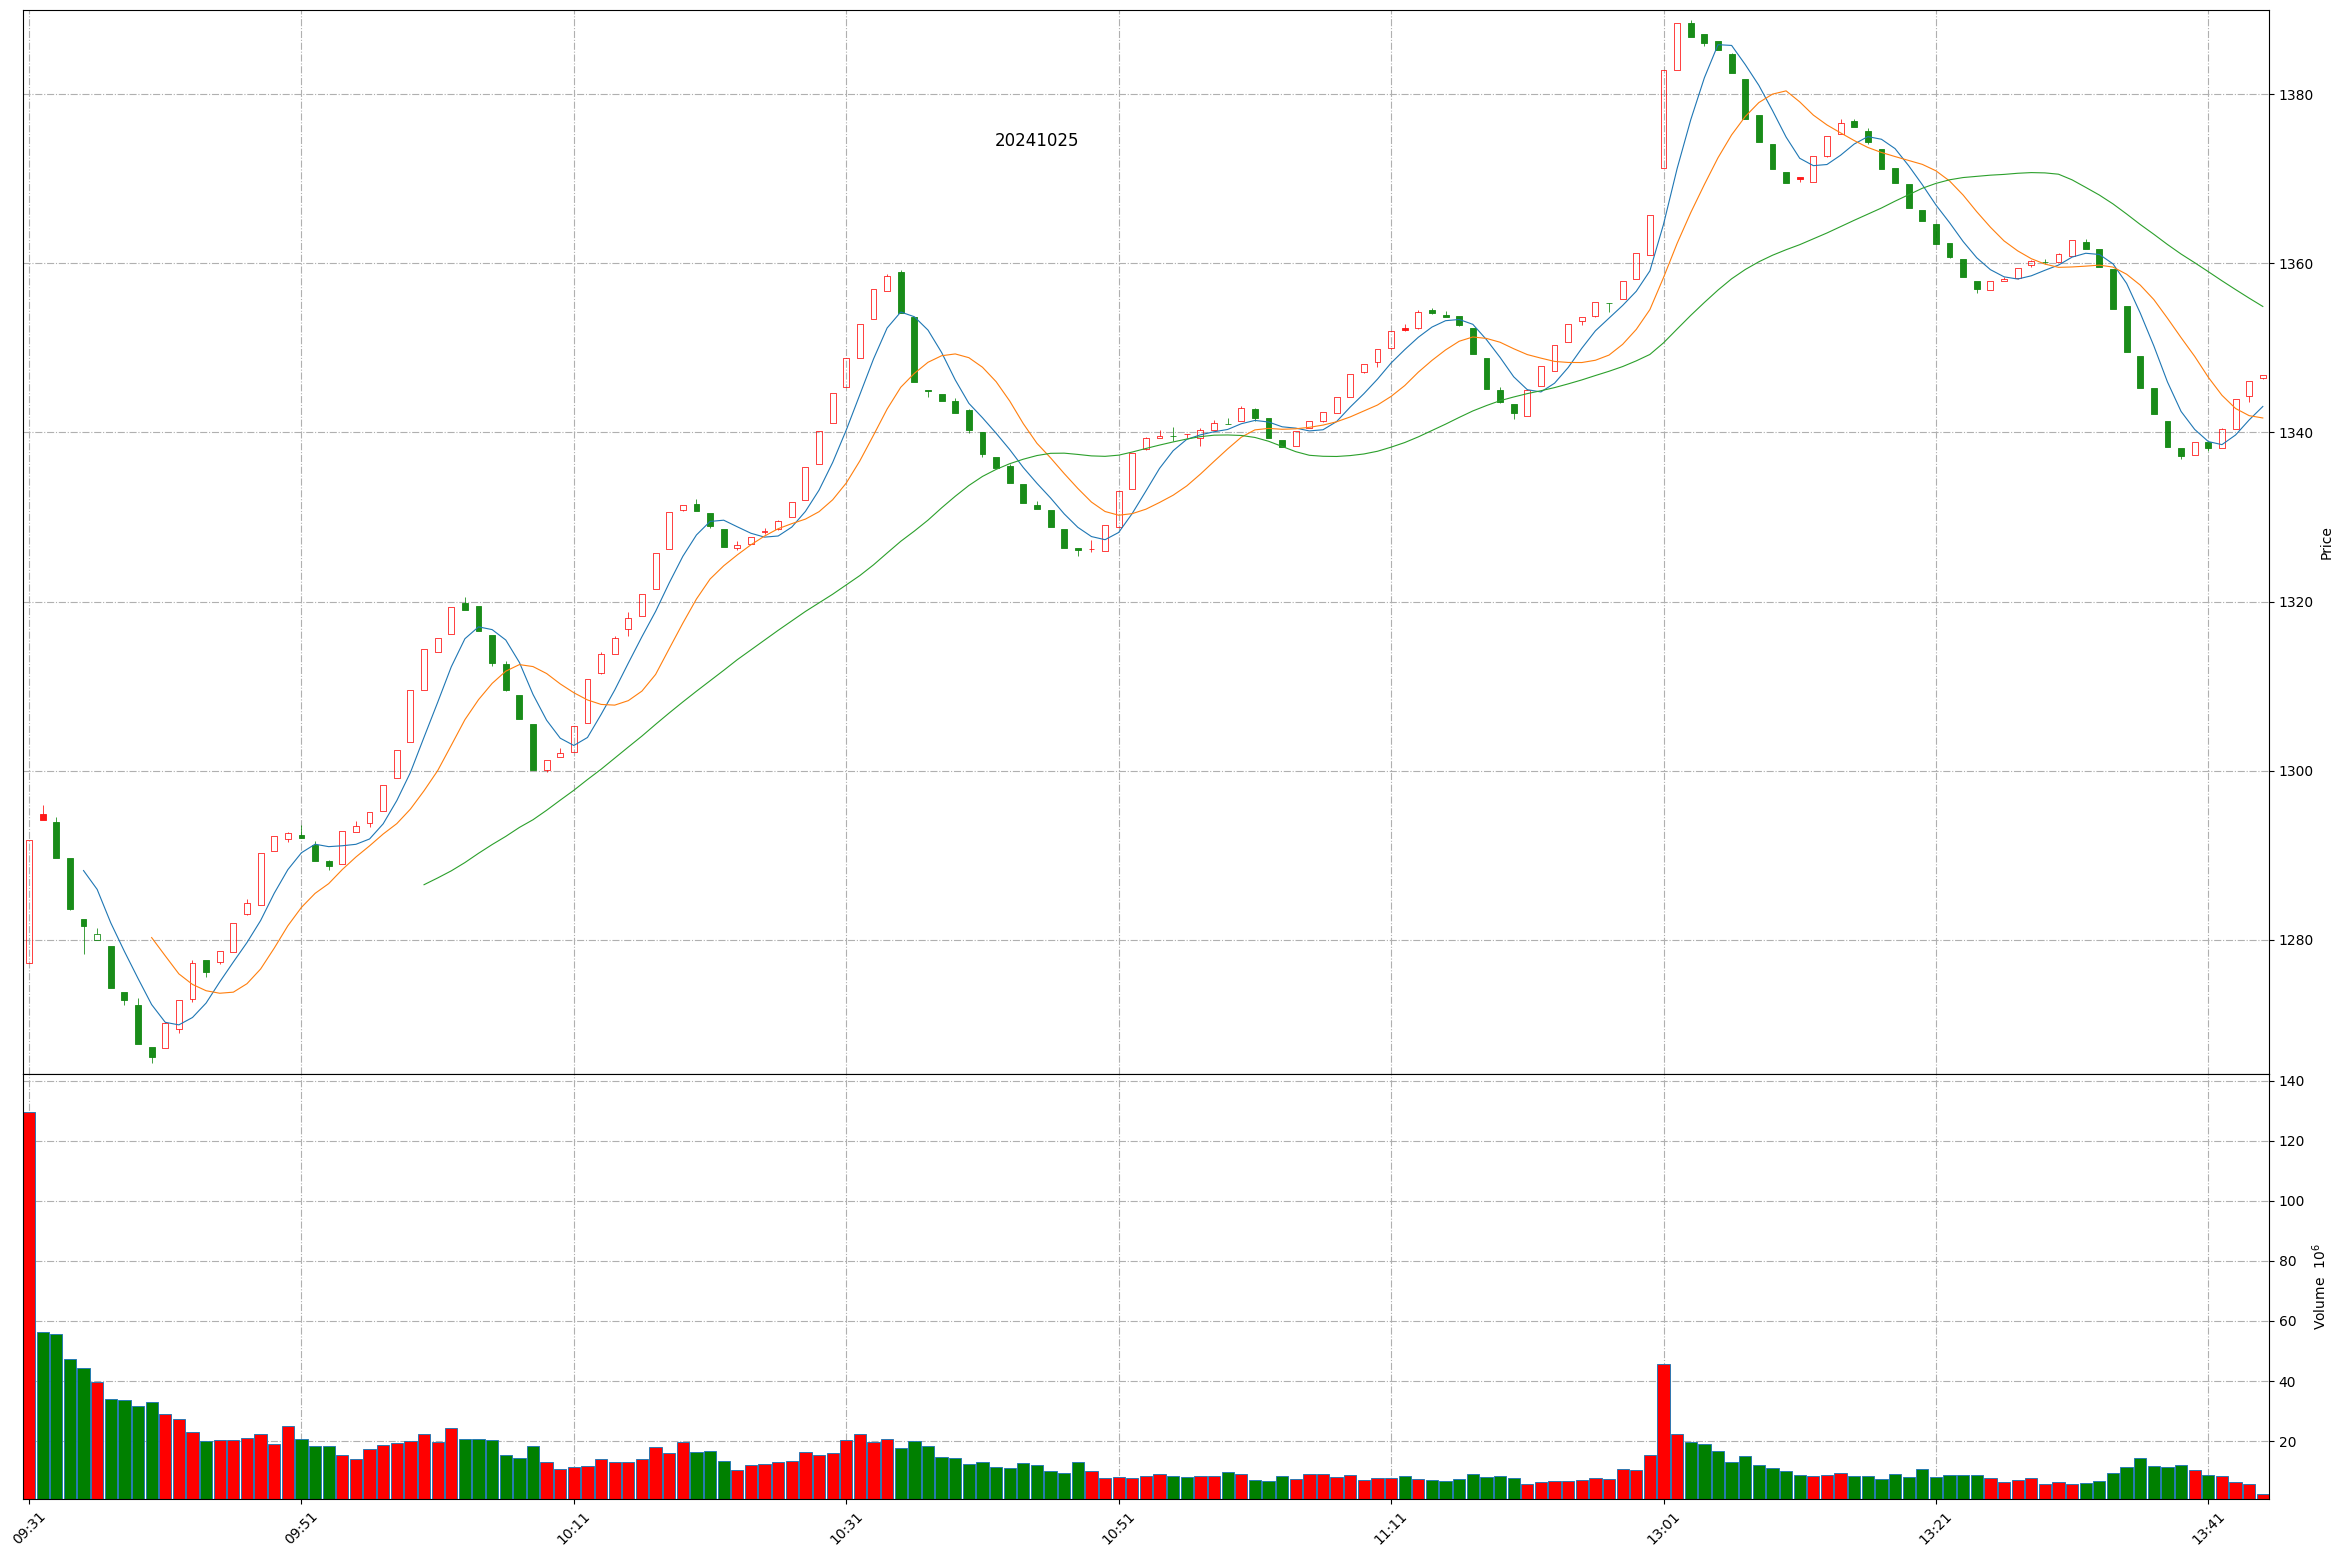
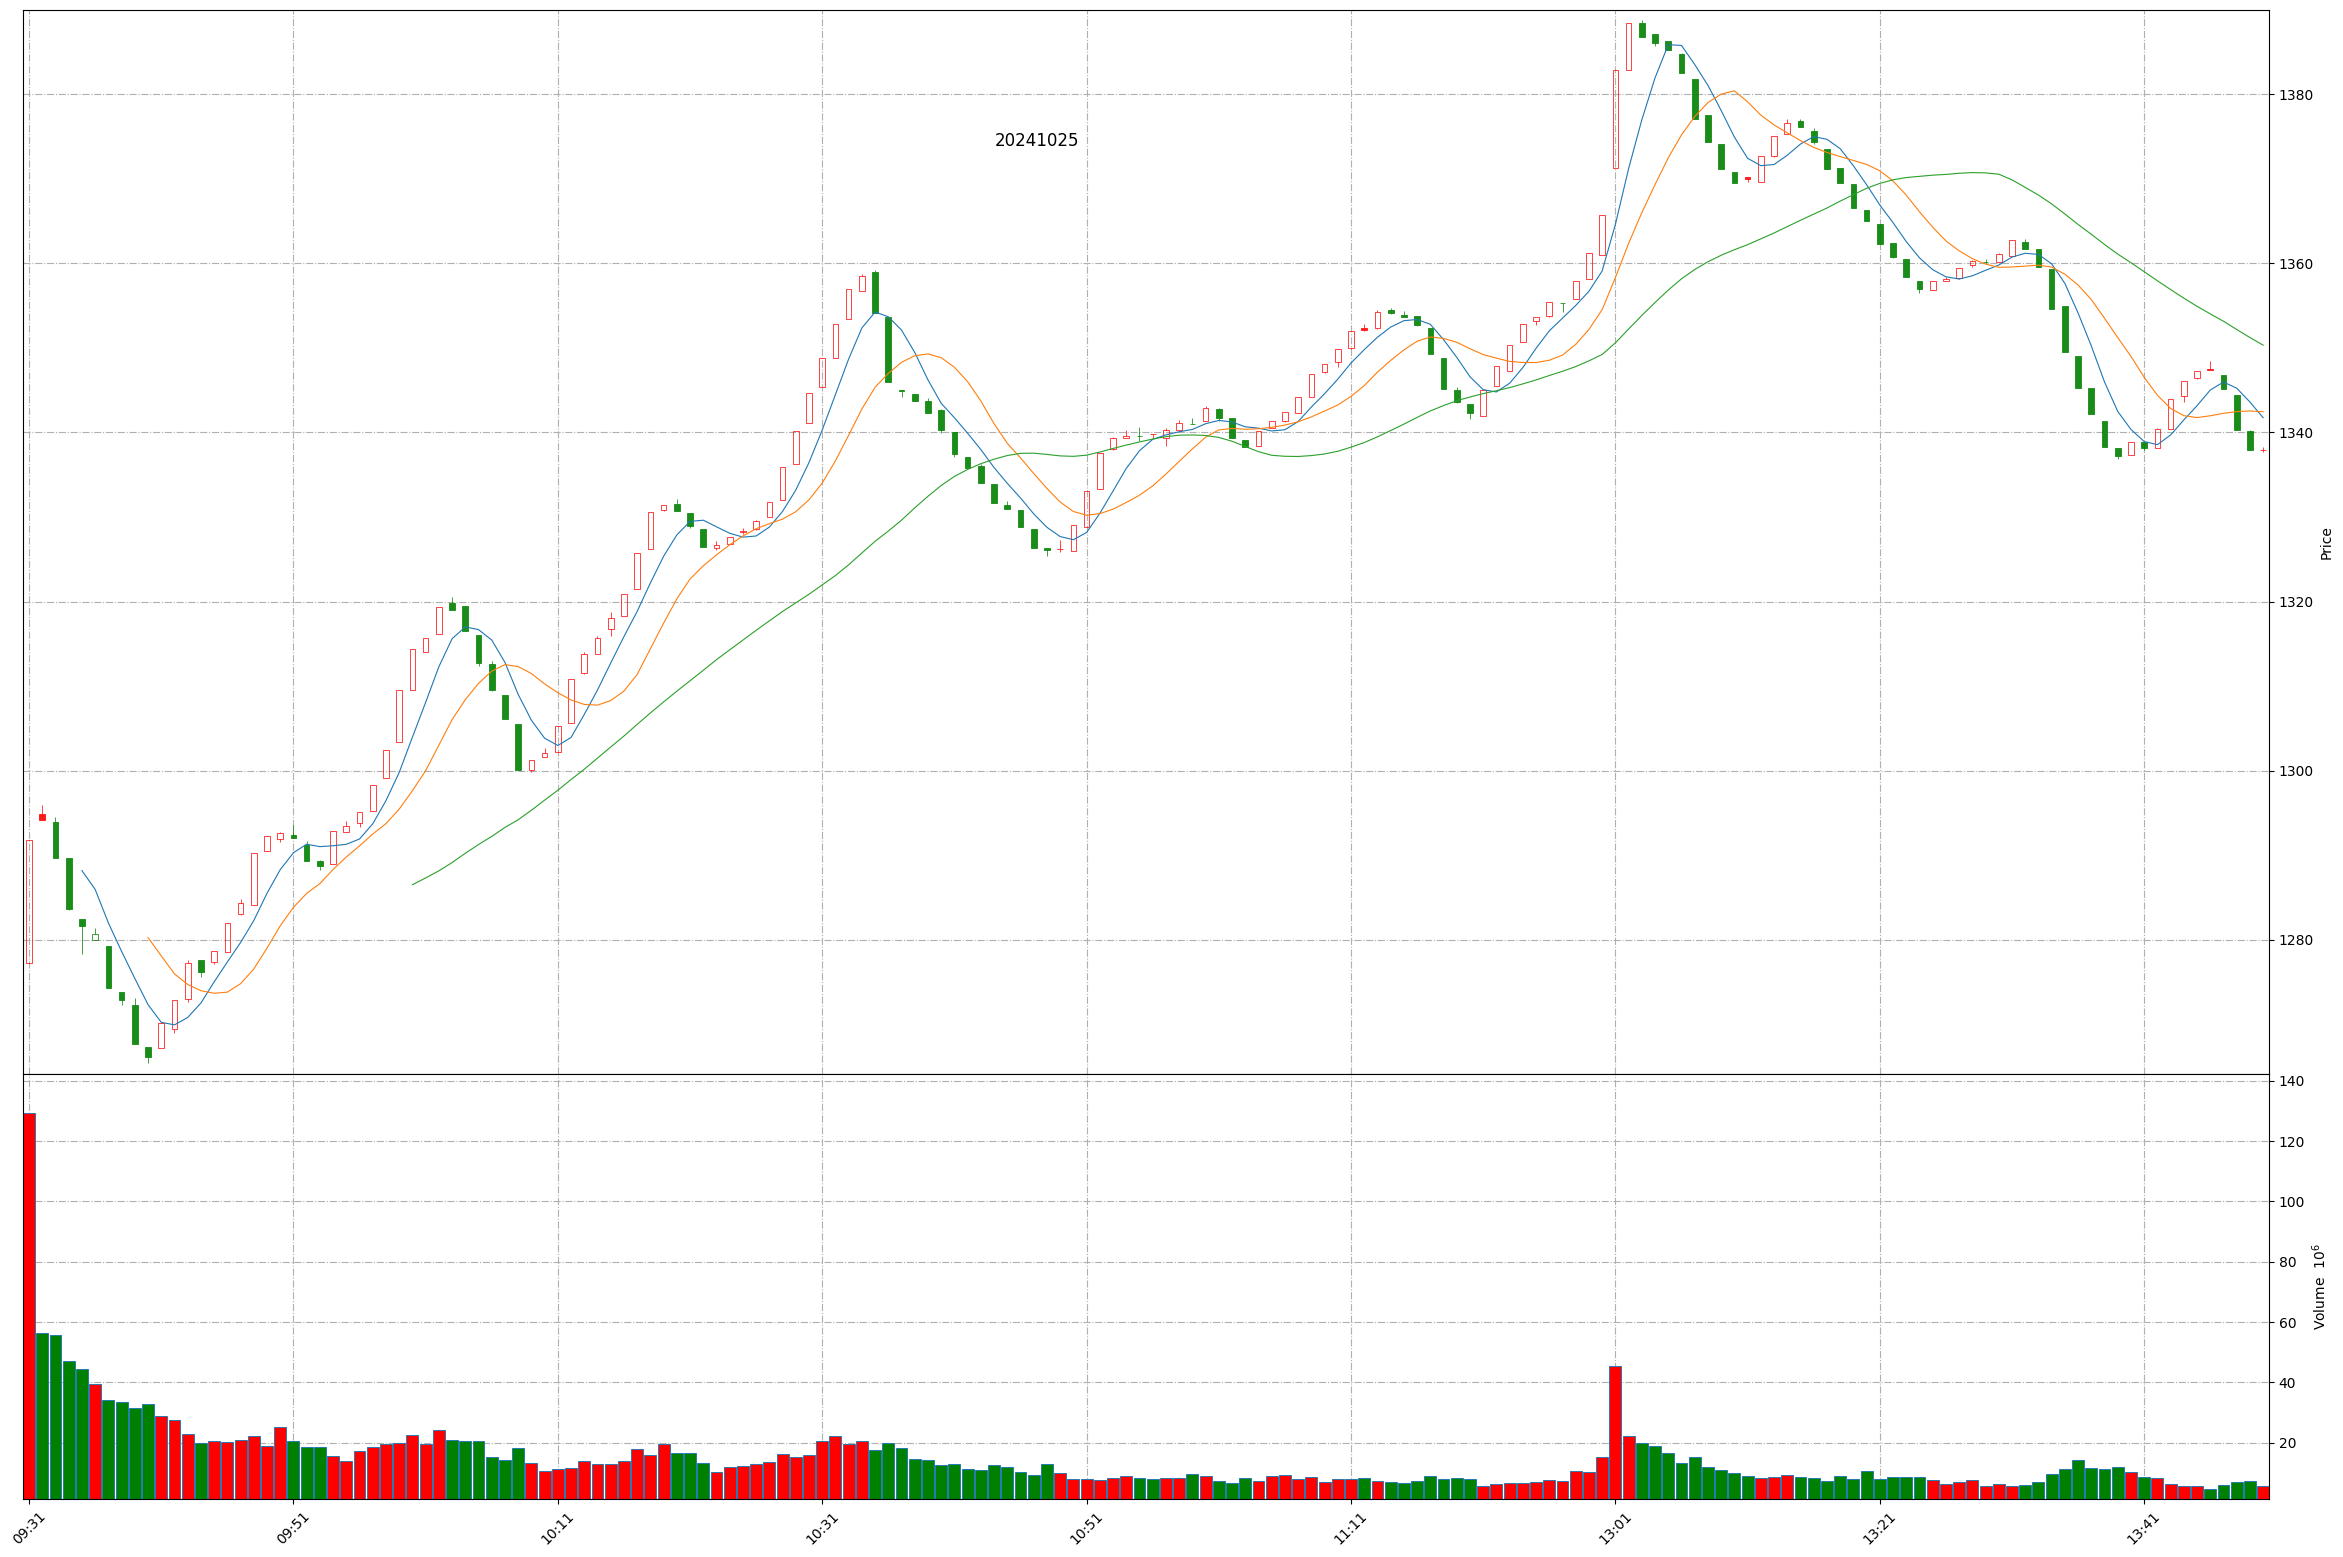
Github action update at 2024-10-25 13:50:00.

diff --git a/README.md b/README.md
@@ -1,11 +1,11 @@
 
 # Daily-A-share-market-quotes 每日 A 股指数（5min 更新）- 20241025
 
-### 上证指数 20241025 13:44
+### 上证指数 20241025 13:50
 ![](./fig/2024/10/20241025-sh000001.png)
 
-### 深证成指 20241025 13:44
+### 深证成指 20241025 13:50
 ![](./fig/2024/10/20241025-sz399001.png)
 
-### 北证50 20241025 13:44
+### 北证50 20241025 13:50
 ![](./fig/2024/10/20241025-bj899050.png)
